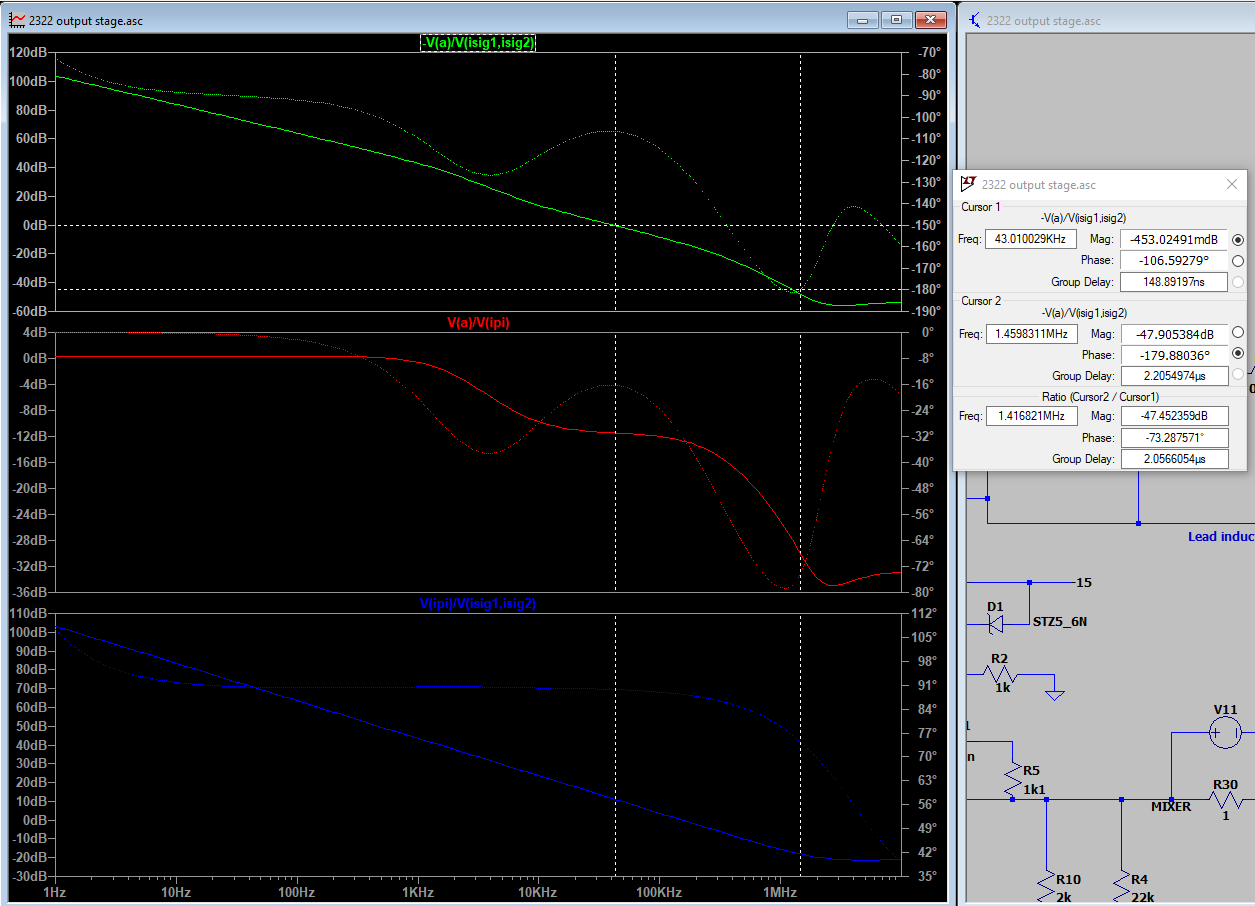
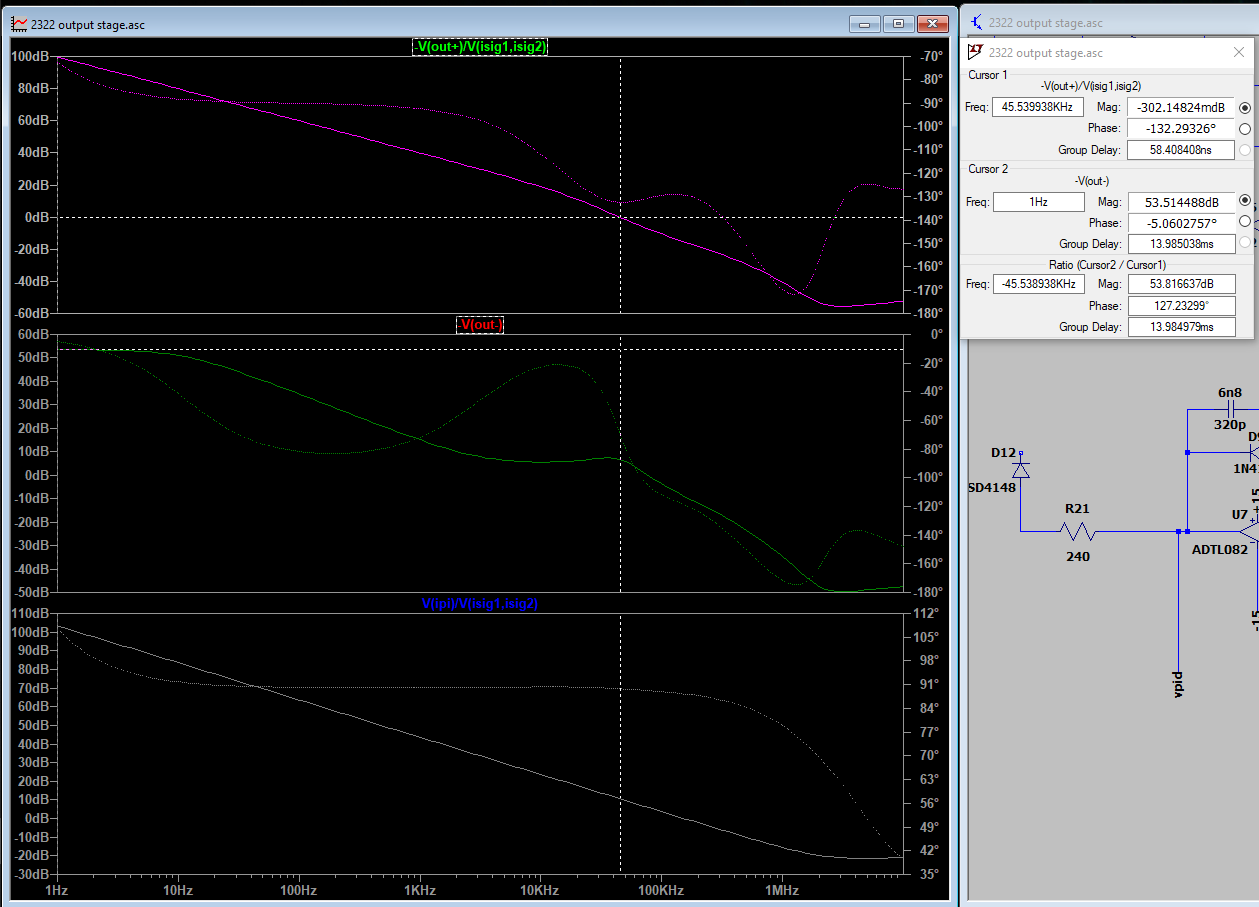
update 2322 article

diff --git a/2322.html b/2322.html
@@ -69,13 +69,13 @@
                         Here's the voltage over a 47 ohm resistor with the output set to 8V and 10mA. The voltage rises to 8V before the current limit kicks in, 
                         in other words a peak 170mA is drawn. It takes around 20ms for the controller to bring the current back down.
                         Though a bench supply is not the best option for a precision low current source (especially not this one, the CC mode noise is 
-                        only specified as 1mArms), this ought to be improved a bit. <br>
+                        only specified as 1mArms), I would improve this if possible. <br>
                     </p>
 
                     <h4 id="Reverse engineering"> Reverse engineering and modifications </h4>
                     I could not find any schematics for this unit, though I could find a service manual with schematics for an AMREL LPS-305 which has a similar output stage and control loop 
-                    and provided a good starting point to try reverse engineering this thing. 
-                    <a href="https://elektrotanya.com/sites/default/files/forum/2018/07/lps301_305_service_manual_1803.pdf">This is an *exceptionally bad* service manual, by the way.</a>
+                    and provided a good starting point to try reverse engineering. 
+                    <a href="https://elektrotanya.com/sites/default/files/forum/2018/07/lps301_305_service_manual_1803.pdf">This is an *exceptionally bad* service manual.</a>
                     <p>
                         <img src="2322/2322internal.jpg" class="img-fluid maxImageWidth"></img><br>
                         The main functional components of the unit are the mainboard, the power supply board, and the digital card.
@@ -150,7 +150,7 @@
                         <small><i>LTspice frequency sweeps. Top to bottom: 1. open loop gain \(C(s)P(s) = I_{out}/e \) ,  2. plant gain \(P(s)=I_{out}/V_{i}\) , 3. controller gain \(C(s)=V_{i}/e\)</i></small>
                         <br><br>
 
-                        The open loop system crossover frequency for the CC mode is at 5.2kHz and the phase margin is around 54 degrees. <br><br>
+                        The open loop system crossover frequency for the CC mode is at 6.2kHz and the phase margin is around 75 degrees. <br><br>
                         
                         The CC controller isn't very good, and part of the reason it is slow may be because it is missing a proportional action. It's also quite bad at rejecting power supply ripple. 
                         I suppose the reason for using a pure I-controller here is so that it has a very subdued response and the CV loop can dominate. Usually, CV mode is the normal 
@@ -184,7 +184,7 @@
                         With the output set to 30V and a 10k load, the phase margin is around 74 degrees, and the system crossover frequency is 4.6kHz. 
                     </p>
 
-                    <h5 id="fix">Possible fixes: power-on issues</h5>
+                    <h4 id="fix">Possible fixes: power-on issues</h5>
                     <h6><b>Multistep waveforms and sequencing problem</b></h6>
                     <p>
                         <img src="2322/sample and hold demo.jpg" class="img-fluid maxImageWidth"></img><br>
@@ -236,7 +236,7 @@
                         I also suspect the GPIB functionality may be broken with the new firmware, but I haven't checked this since I don't have any GPIB controllers. (I normally just use the RS-232, which this unit lacks).
                     </p>
                     
-                    <h5>Possible fixes: loop compensation</h5>
+                    <h4>Possible fixes: loop compensation</h5>
                     <h6><b>Voltage loop</b></h6>
                     <p>
                         <img src="2322/simulated overshoots.png" class="img-fluid maxImageWidth"></img><br>
@@ -260,7 +260,7 @@
                         The phase margin is around 64 degrees in this case.<br><br>
                         Using C48 = 200pF results in a larger overshoot (100mV CC-CV overshoot and -20mV negative overshoot), but it yields a very good >80 degrees phase margin due to better compensation of the plant characteristics.
                         <br><br>
-                        Anything between 100pF - 1nF for C48 results in markedly better performance than stock without getting close to instability. In real tests, it also happens to reduce the output voltage noise quite substantially, probably due to the higher bandwidth.
+                        Anything between 100pF - 1nF for C48 results in markedly better performance than stock without getting too close to instability. In real tests, it also happens to reduce the output voltage noise quite substantially, possibly due better PSRR with higher bandwidth.
                         Of course, going deeper into the loop shaping is also an option here, but replacing C48 alone seems good enough to solve most issues with a minimum modification.
                        
                     </p>
@@ -268,18 +268,53 @@
                     <p>
                         <img src="2322/simulated current overshoot.png" class="img-fluid maxImageWidth"></img><br>
                         Like with the real test, here we set up the LTspice model to deliver ~8V/10mA into a 47R load.
-                        The simulation seems to show the slow CC regulation is expected. For the current loop, I like to at least have a 20mA-capable current limit, this is good enough to protect most things. <br><br>
+                        The simulation seems to show the slow CC regulation is expected.<br><br>
                         <img src="2322/CC controller.png" class="img-fluid maxImageWidth"></img><br>
-                        In the current controller, changing C40 from 15nF to 1nF is enough to suppress the overshoot to below 20mA with any set voltage. At least, with a moderate 47R load, on power-on.
+                        In the current controller, changing C40 from 15nF to 1nF is enough to suppress the overshoot to below 20mA with any set voltage. 
                         <br><br>
                         <img src="2322/current overshoot 1nF.png" class="img-fluid maxImageWidth"></img><br>
                         Again, the load is a 47R resistor, and the current limit is set to 10mA. 
-                        Increasing the set voltage to the theoretical maximum 35V results in just under 13mA peak current, and this is probably acceptable current limiting performance. 
-                        Lower load resistances will certainly see a larger overshoot, as will transient loads while the output is enabled. With this controller design, this is simply not meant to be a fast CC power supply.
+                        Increasing the set voltage to the theoretical maximum 35V results in just under 13mA peak current, and this is probably acceptable current limiting performance.
                         <br><br>
 
                         <img src="2322/all CC frd 1n.png" class="img-fluid maxImageWidth"></img><br>    
-                        Looking at the frequency response, the phase margin of the CC system is now around 74 degrees with C40 = 1nF. This is good.
+                        However, looking at the frequency response, the phase margin of the CC system is now around 47 degrees and the crossover frequency is 45kHz. 
+                        This is getting a bit too close to potential instability for my taste. 
+                        <br><br>
+                        We also typically want the gain crossover slope to be -20dB/decade for stability.
+                        If we want to keep the output stage unchanged, that seems to be with a crossover frequency around 5kHz, which means we don't really have room to increase this bandwidth from the stock configuration and maintain good stability.
+                        To increase the current controller bandwidth and kill the overshoot, it would really be better to introduce a lead compensator - i.e., make the CC controller a proper PID controller. 
+                        Maybe later...
+                    </p>
+                
+                    <h4>Detour: output noise</h4>
+                    <p>
+                        <b>"Oh, just one more thing..."</b><br>
+                        <img src="2322/noise.jpg" class="img-fluid maxImageWidth"></img><br>
+                        After putting everything back together, this was the output noise at the front output terminals. 
+                        I don't remember seeing any of that when the supply was open. (Was it always like that with the case closed...?)<br><br>
+
+                        <img src="2322/output terminal.png" class="img-fluid maxImageWidth"></img><br>
+                        At any rate, this was somehow related to the common mode filtering caps C73 and C74. 
+                       <br><br>
+                        
+                        <img src="2322/no noise.jpg" class="img-fluid maxImageWidth"></img><br>
+                        Removing them completely fixed the noise. I've looked at a few power supply schematics with the same Harrison "floating regulator" topology that omit such output capacitors, so I am relatively confident this won't be a huge issue.
+                        The chassis ground is intact, and the ground terminals are all still usable.
+                        Though in principle, I actually can't explain this. Common mode filtering probably shouldn't do <i>that</i> to the differential mode noise that we measure at the output... <br><br>
+                    </p>
+                    
+                    <h4>Results</h4>
+                    <p>
+                        <img src="2322/multistep fixed.jpg" class="img-fluid maxImageWidth"></img><br>
+                        With a set 12V and 1A, the power-on is a clean step. No overshoot on the power-off.<br><br>
+
+                        <img src="2322/overshoot fixed.jpg" class="img-fluid maxImageWidth"></img><br>
+                        With a set 12V and 0.050A, the output caps trigger the current limit during the startup, as expected. 
+                        But this time, very little overshoot on the mode crossover. Much better.
+
+                        <br><br>
+                        At some point I will have to test the real stability with different loads, transient response time, etc. But we will leave it at that for now.
                     </p>
                 </div>
             </div>
